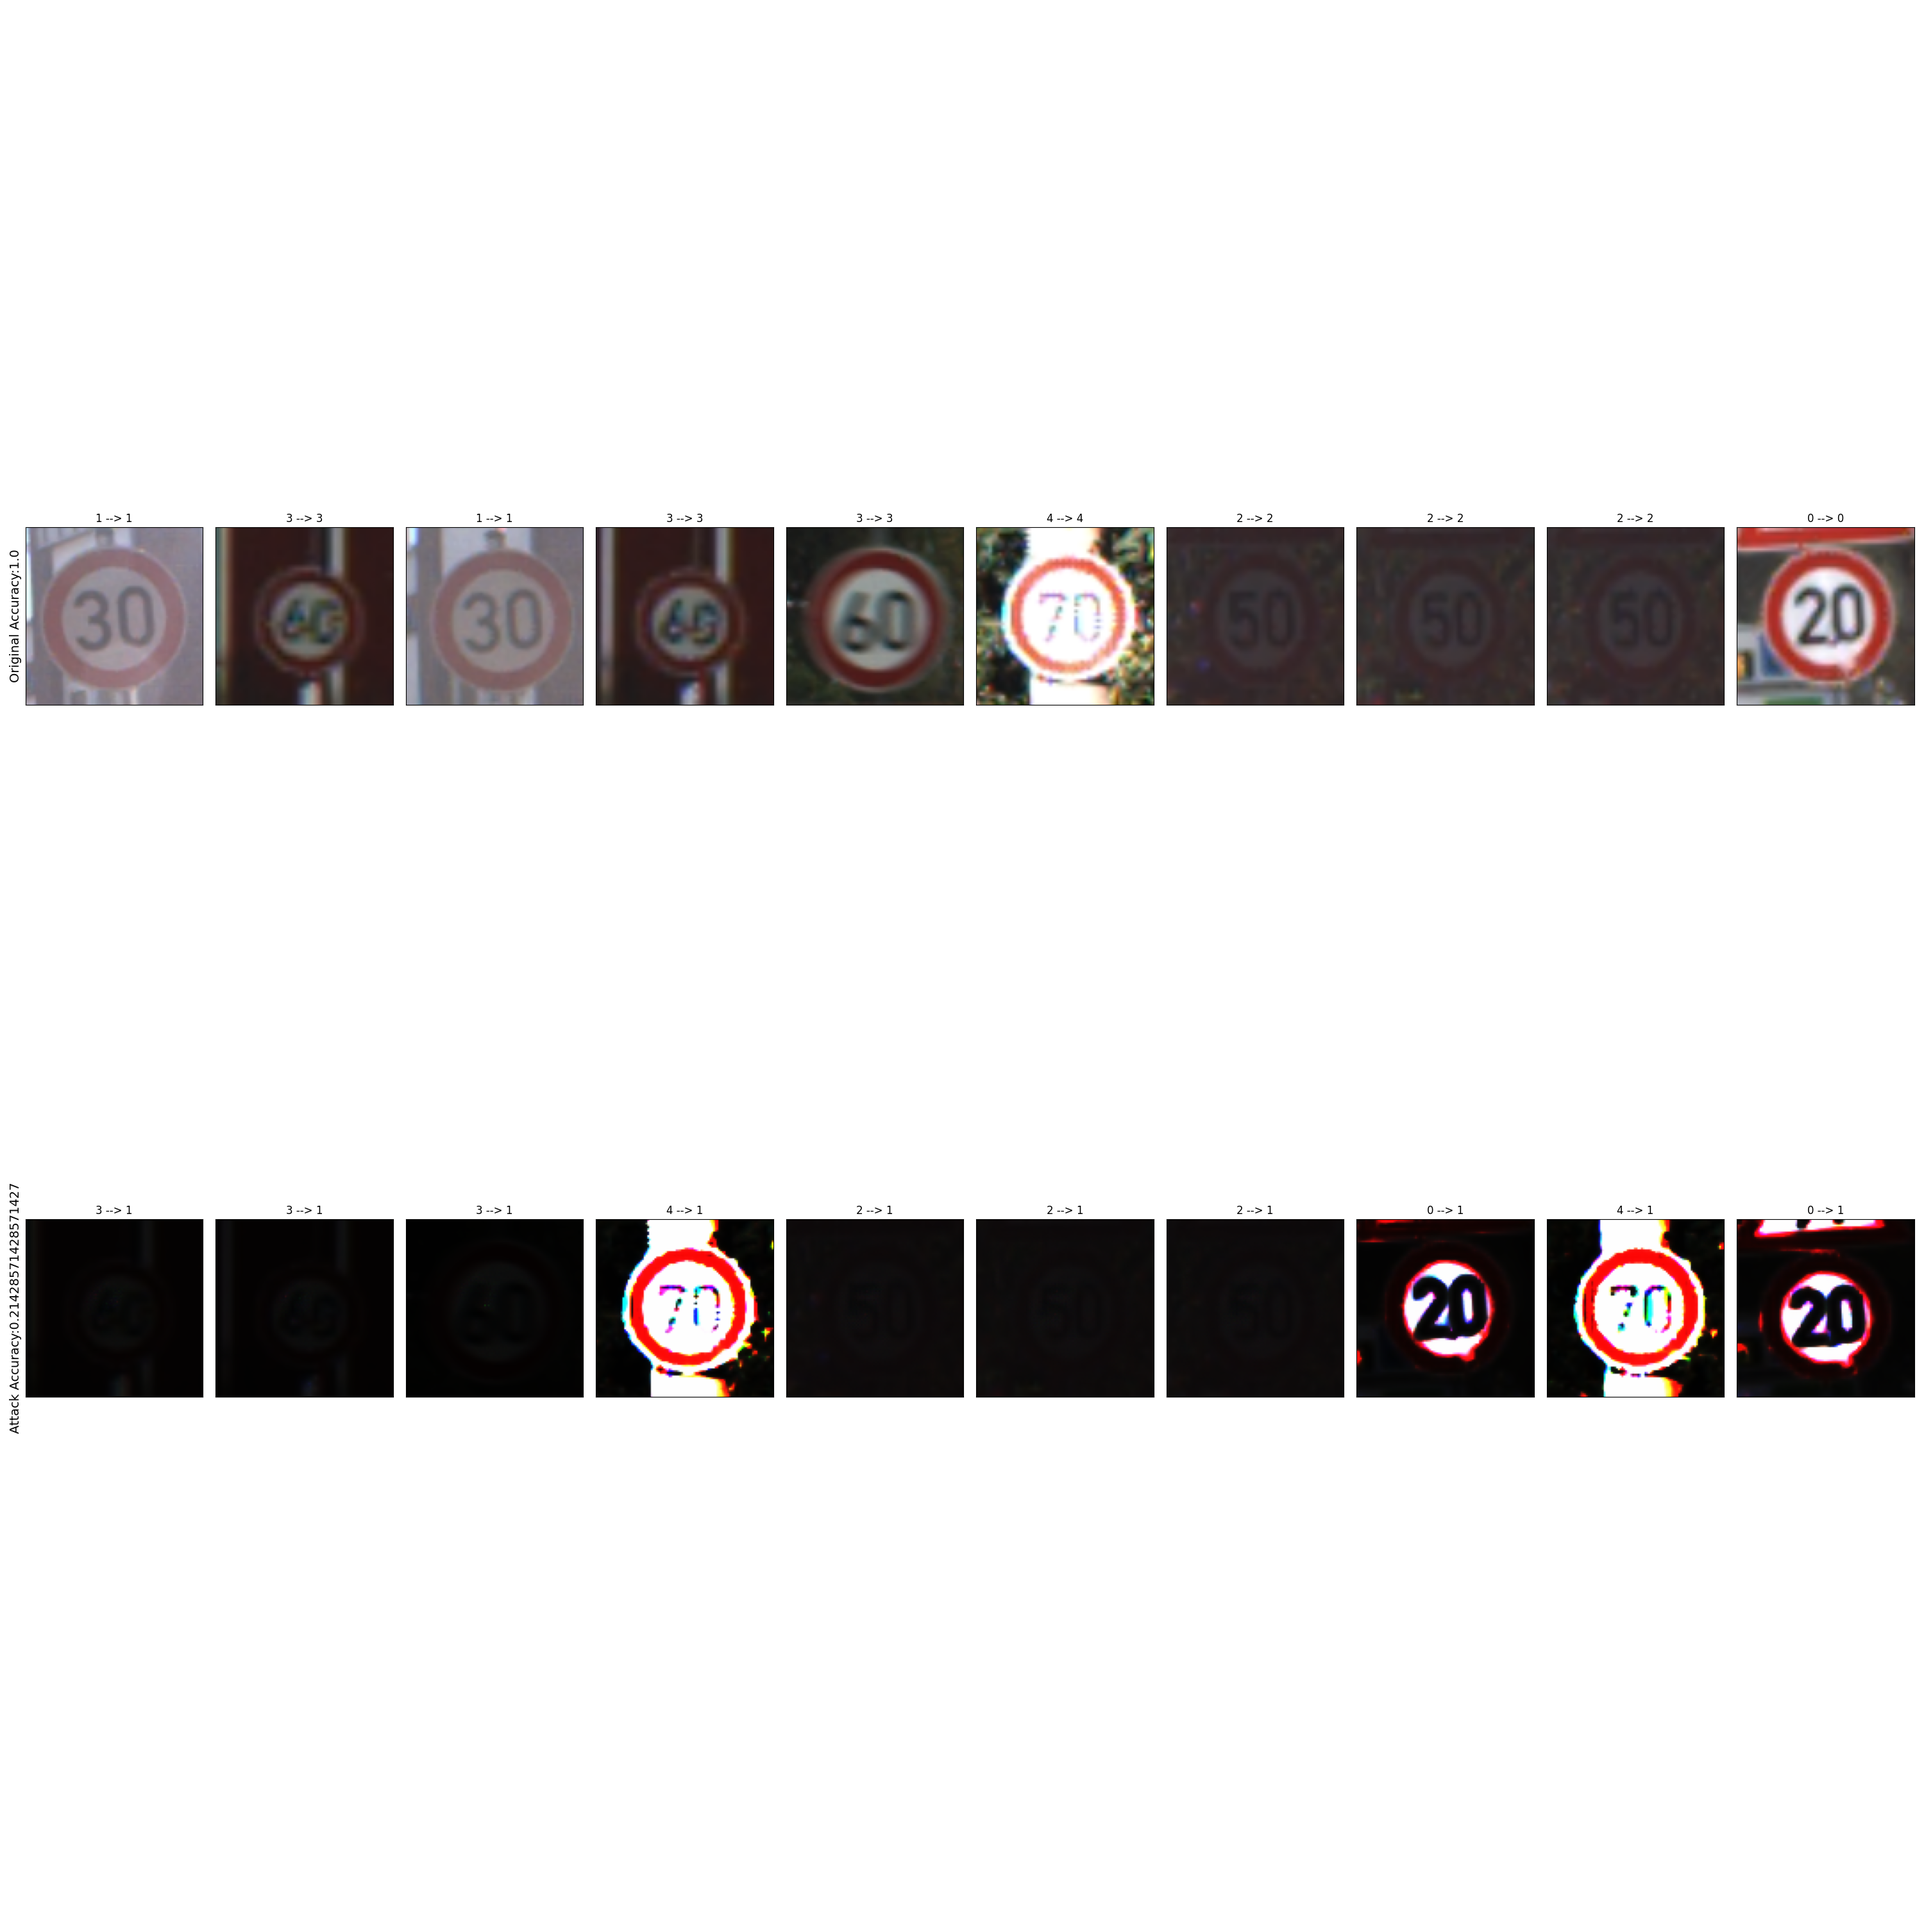
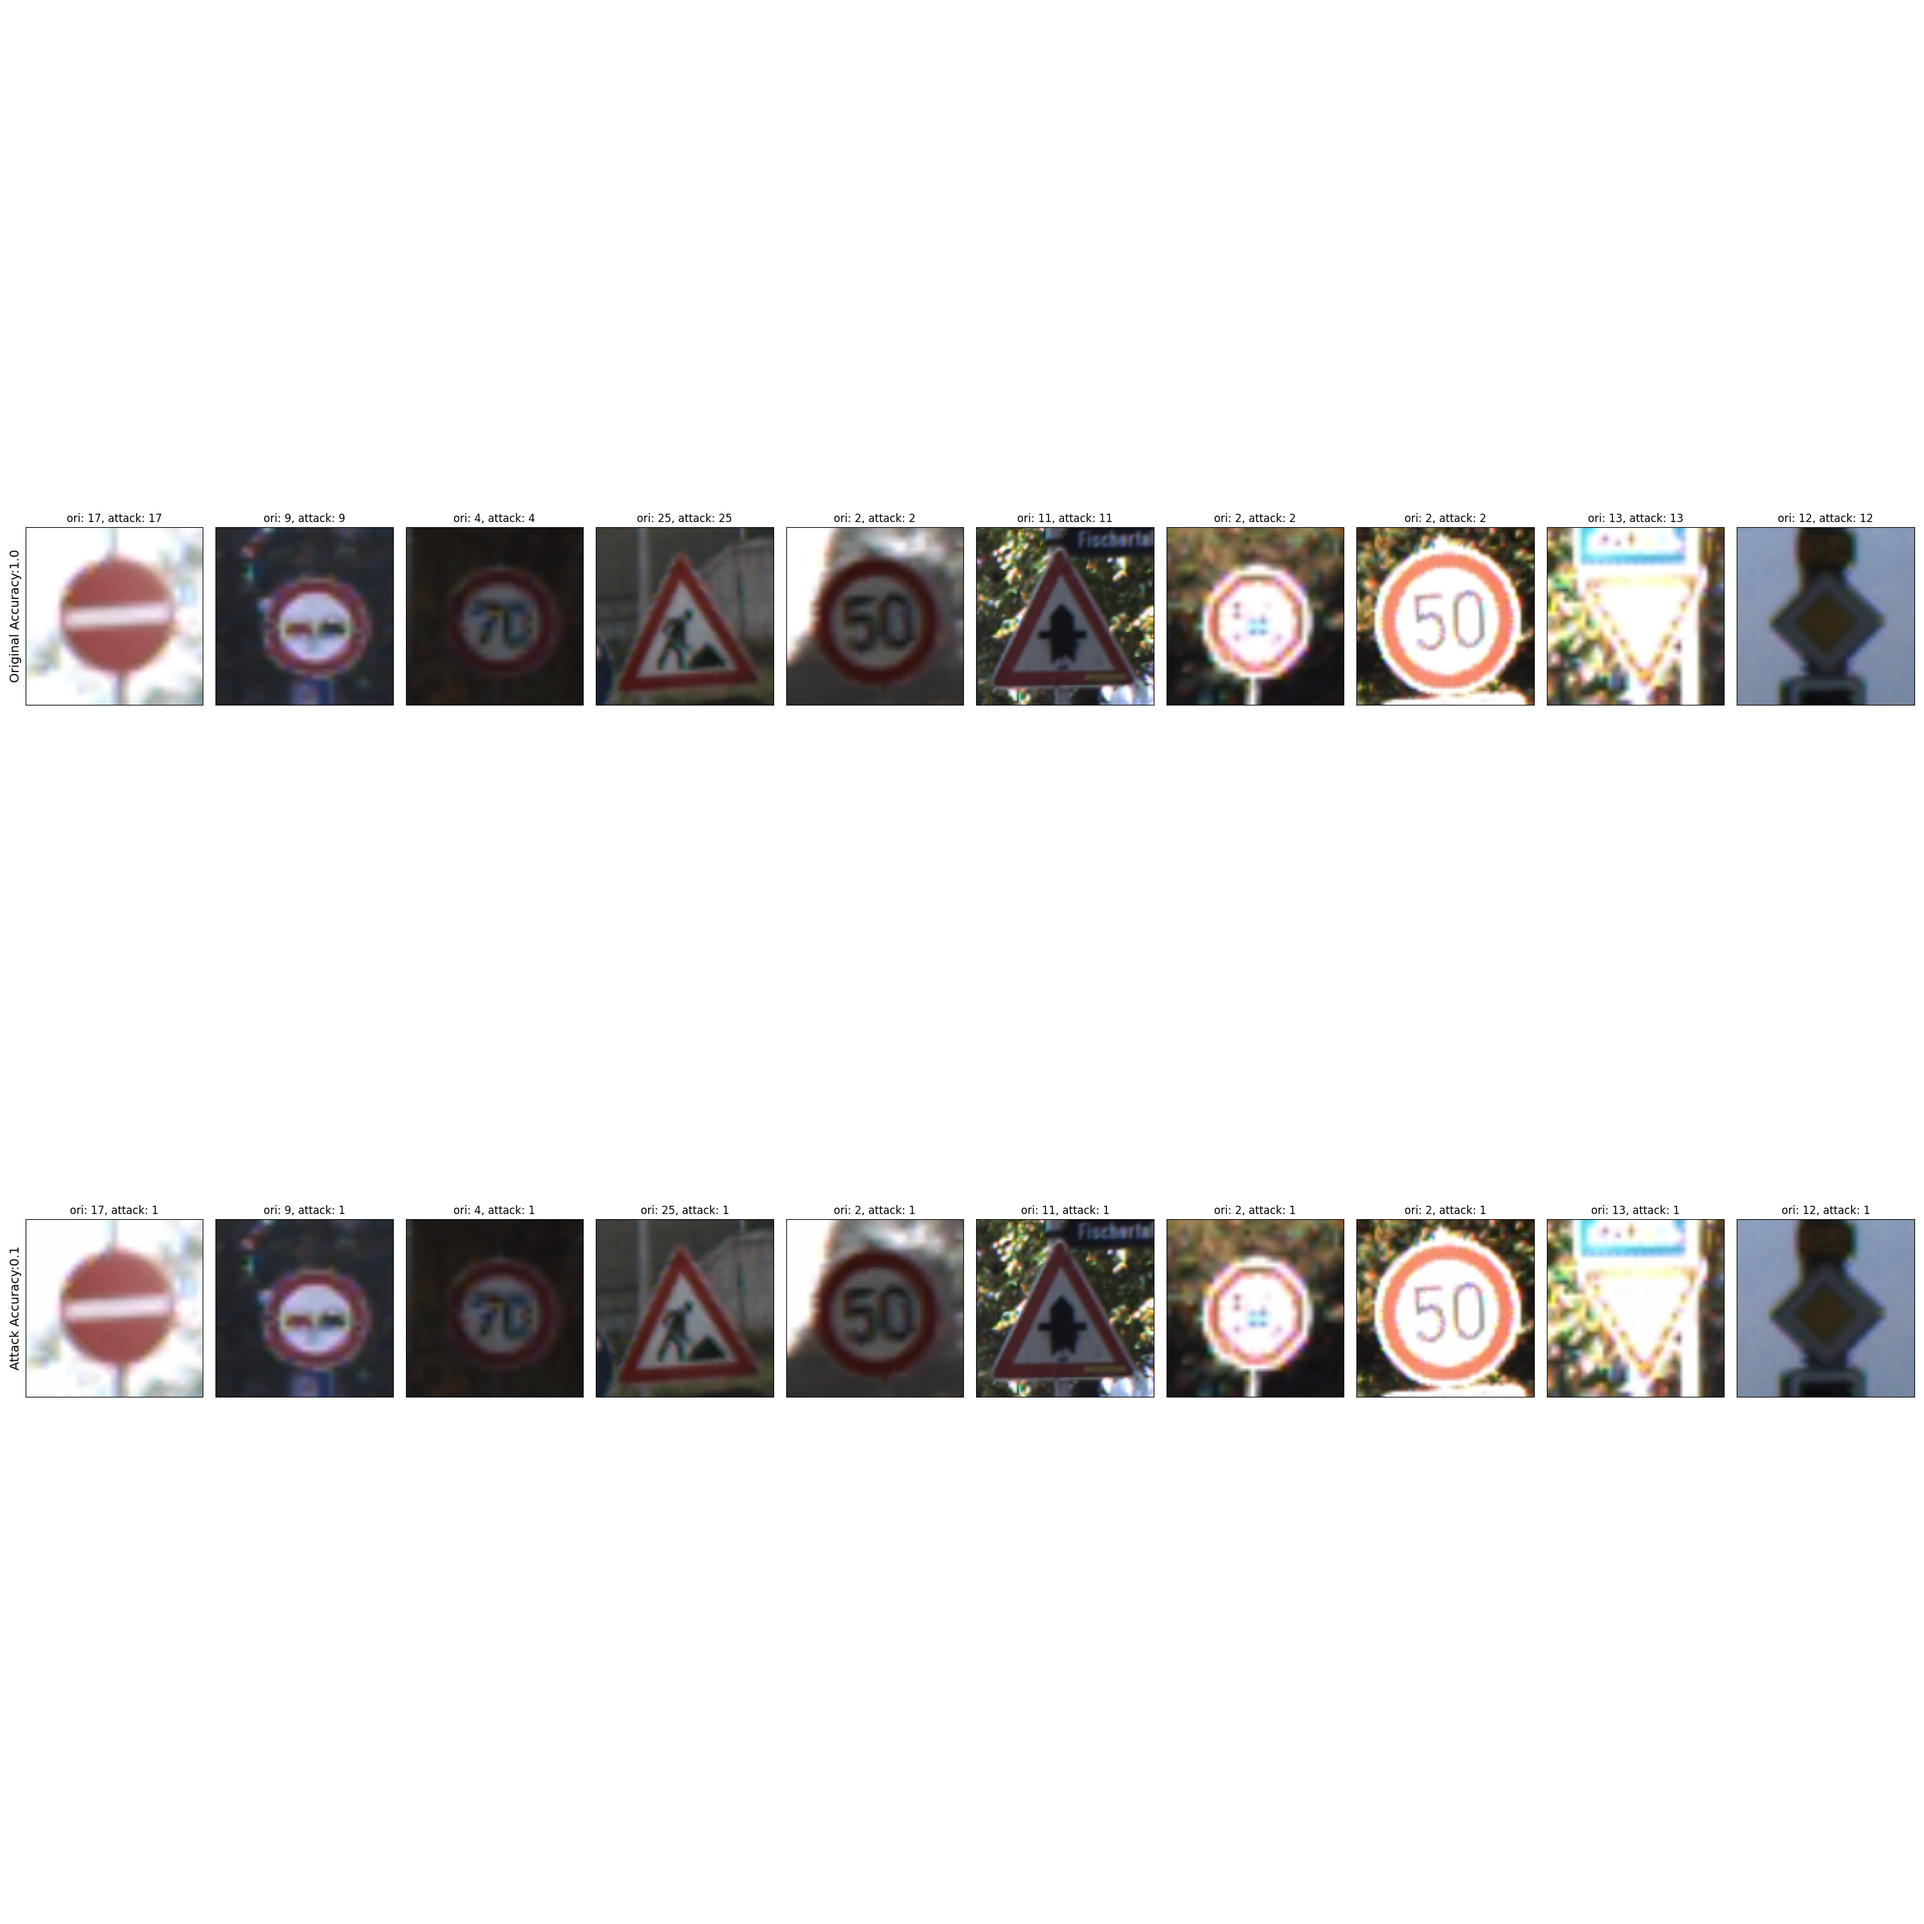
cw cleanup visualisation

Changed region(s): [[0.0, 0.62, 1.0, 0.744], [0.0, 0.248, 1.0, 0.372]]

diff --git a/attacks/carlini_wagner_attack.py b/attacks/carlini_wagner_attack.py
@@ -8,6 +8,7 @@ from torch.autograd import Variable
 from torchvision.utils import make_grid
 
 import matplotlib.pyplot as plt
+import datetime
 
 def l2_loss_func(x, w):
     return torch.dist(x,((torch.tanh(w) + 1)/2), p=2)
@@ -93,9 +94,11 @@ def test_cw_attack(model, device, test_loader, num_tests, num_classes, target_la
     # List of successful adversarial samples
     attack_sample_list = []
 
-    for image, labels in test_loader:
+    for i, (image, labels) in enumerate(test_loader):
         if image is None:
           continue
+        if i %20 == 0:
+            print("images attacked:", i, datetime.datetime.now())
 
         # label = torch.unsqueeze(label, 0)
         _, label = torch.max(labels.data, 1)
@@ -123,7 +126,6 @@ def test_cw_attack(model, device, test_loader, num_tests, num_classes, target_la
 
         # Attack
         attack_image = carlini_wagner_attack(model, image, label.item(), target=target_label!=-1, num_classes=num_classes, target_label=target_label)
-        # attack_image = c_w_test.carlini_wagner_l2(model, image, labels=label, targeted=target_label!=-1)
 
         attack_image_unsqueezed = torch.unsqueeze(attack_image, 0)
         # Get new prediction after attack
@@ -141,10 +143,11 @@ def test_cw_attack(model, device, test_loader, num_tests, num_classes, target_la
             if len(attack_sample_list) < 10:
                 adv_ex = attack_image.squeeze().detach().cpu().numpy()
                 attack_sample_list.append((init_pred.item(), attack_pred.item(), adv_ex))
-                grid = make_grid(attack_image_unsqueezed.data.cpu(), normalize=True).permute(1,2,0).numpy()
-                plt.imshow(grid)
-                plt.savefig(os.path.join(attack_common.VISUALISATIONS_DIR, "attack_image" + str(int(time.time()))))
-                plt.show()
+                print("predictions:", len(attack_sample_list), attack_output.data)
+                # grid = make_grid(attack_image_unsqueezed.data.cpu(), normalize=True).permute(1,2,0).numpy()
+                # plt.imshow(grid)
+                # plt.savefig(os.path.join(attack_common.VISUALISATIONS_DIR, "attack_image" + str(int(time.time()))))
+                # plt.show()
     final_accuracy = accuracy_counter/float(num_tests)
     
     # Display for progress
@@ -166,23 +169,23 @@ def test_and_visualise_cw_attack(model, test_loader, num_tests, num_classes, tar
     print("Getting original accuracies")
     accuracy_counter = 0
     # List of successful adversarial samples
-    # sample_list = []
+    sample_list = []
     
-    # for image, label in test_loader:
-    #     _, label = torch.max(label.data, 1)
-    #     output = model(image)
-    #     pred = output.max(1, keepdim = True)[1]
+    for image, label in test_loader:
+        _, label = torch.max(label.data, 1)
+        output = model(image)
+        pred = output.max(1, keepdim = True)[1]
 
-    #     # Check if pred correct
-    #     if pred.item() == label.item():
-    #         accuracy_counter += 1    
-    #         if len(sample_list) < 10:
-    #             ex = image.squeeze().detach().cpu().numpy()
-    #             sample_list.append((pred.item(), pred.item(), ex))
+        # Check if pred correct
+        if pred.item() == label.item():
+            accuracy_counter += 1    
+            if len(sample_list) < 10:
+                ex = image.squeeze().detach().cpu().numpy()
+                sample_list.append((pred.item(), pred.item(), ex))
 
-    # accuracies.append(accuracy_counter/float(num_tests))
-    # examples.append(sample_list)
-    # print("original accuracy:", accuracies[0])
+    accuracies.append(accuracy_counter/float(num_tests))
+    examples.append(sample_list)
+    print("original accuracy:", accuracies[0])
 
     # Run attack
     print("Carlini Wagner: running attack...")
@@ -190,10 +193,10 @@ def test_and_visualise_cw_attack(model, test_loader, num_tests, num_classes, tar
     accuracies.append(acc)
     examples.append(ex)
 
-    title = "carlini_wagner_attack"
+    title = "targeted_carlini_wagner_attack"
  
     # Show some example attack images
-    cnt = 0
+    examples_count = 0
 
     # Initialize figure
     plt.figure(figsize = (30, 30))
@@ -201,8 +204,8 @@ def test_and_visualise_cw_attack(model, test_loader, num_tests, num_classes, tar
     # Browse through epsilon values and adversarial examples
     for i in range(len(accuracies)):
         for j in range(len(examples[i])):
-            cnt += 1
-            plt.subplot(len(accuracies), len(examples[0]), cnt)
+            examples_count += 1
+            plt.subplot(len(accuracies), len(examples[0]), examples_count)
             
             # Remove x-axis and y-axis ticks from plot
             plt.xticks([], [])
@@ -210,13 +213,13 @@ def test_and_visualise_cw_attack(model, test_loader, num_tests, num_classes, tar
             
             if j == 0:
                 if i == 0:
-                    plt.ylabel("Original Accuracy:{}".format(accuracies[i]), fontsize = 14)
+                    plt.ylabel("Original Accuracy: {}".format(accuracies[i]), fontsize = 14)
                 else:
-                    plt.ylabel("Attack Accuracy:{}".format(accuracies[i]), fontsize = 14)
+                    plt.ylabel("Attack Accuracy: {}".format(accuracies[i]), fontsize = 14)
 
             # Labels for each image subplot
             orig, adv, attack_img = examples[i][j]
-            plt.title("{} --> {}".format(orig, adv))
+            plt.title("ori: {}, attack: {}".format(orig, adv))
 
             img = attack_img.swapaxes(0,1)
             new_img = img.swapaxes(1,2)

diff --git a/attack_visualisation_test.py b/attack_visualisation_test.py
@@ -16,14 +16,15 @@ from attacks import attack_common, itfgsm_attack, iugm_attack, carlini_wagner_at
 
 from custom_dataset import ImageDataset, NUM_CATEGORIES
 from model import loadModel, CNN
+import datetime
 
 np.random.seed(0)
 
 device = torch.device('cuda' if torch.cuda.is_available() else 'cpu')
 
 full_dataset = ImageDataset(device)
-# train_size = int(0.7 * len(full_dataset))
-train_size = int(0.75 * len(full_dataset))
+# train_size = int(0.75 * len(full_dataset)) # basic attacks
+train_size = int(0.992 * len(full_dataset)) # CW attacks
 test_size = len(full_dataset) - train_size
 train_dataset, test_dataset = torch.utils.data.random_split(full_dataset, [train_size, test_size])
 print("Tested on ", test_size, "images")
@@ -33,8 +34,9 @@ model = loadModel()
 
 
 print("GPU Detected:", torch.cuda.is_available())
+print("start:", datetime.datetime.now())
 
-attack_common.test_and_visualise_basic_attack(model, iugm_attack.test_iugm_attack, test_dataloader, test_size, "iugm_attack")
-attack_common.test_and_visualise_basic_attack(model, itfgsm_attack.test_itfgsm_attack, test_dataloader, test_size, "itfgsm_attack")
-# carlini_wagner_attack.test_and_visualise_cw_attack(model, test_dataloader, test_size, 43, 1)
-# carlini_wagner_attack.test_and_visualise_cw_attack(model, test_dataloader, test_size, NUM_CATEGORIES, 1)
+# attack_common.test_and_visualise_basic_attack(model, iugm_attack.test_iugm_attack, test_dataloader, test_size, "iugm_attack")
+# attack_common.test_and_visualise_basic_attack(model, itfgsm_attack.test_itfgsm_attack, test_dataloader, test_size, "itfgsm_attack")
+carlini_wagner_attack.test_and_visualise_cw_attack(model, test_dataloader, test_size, NUM_CATEGORIES, 1)
+print("end:", datetime.datetime.now())
